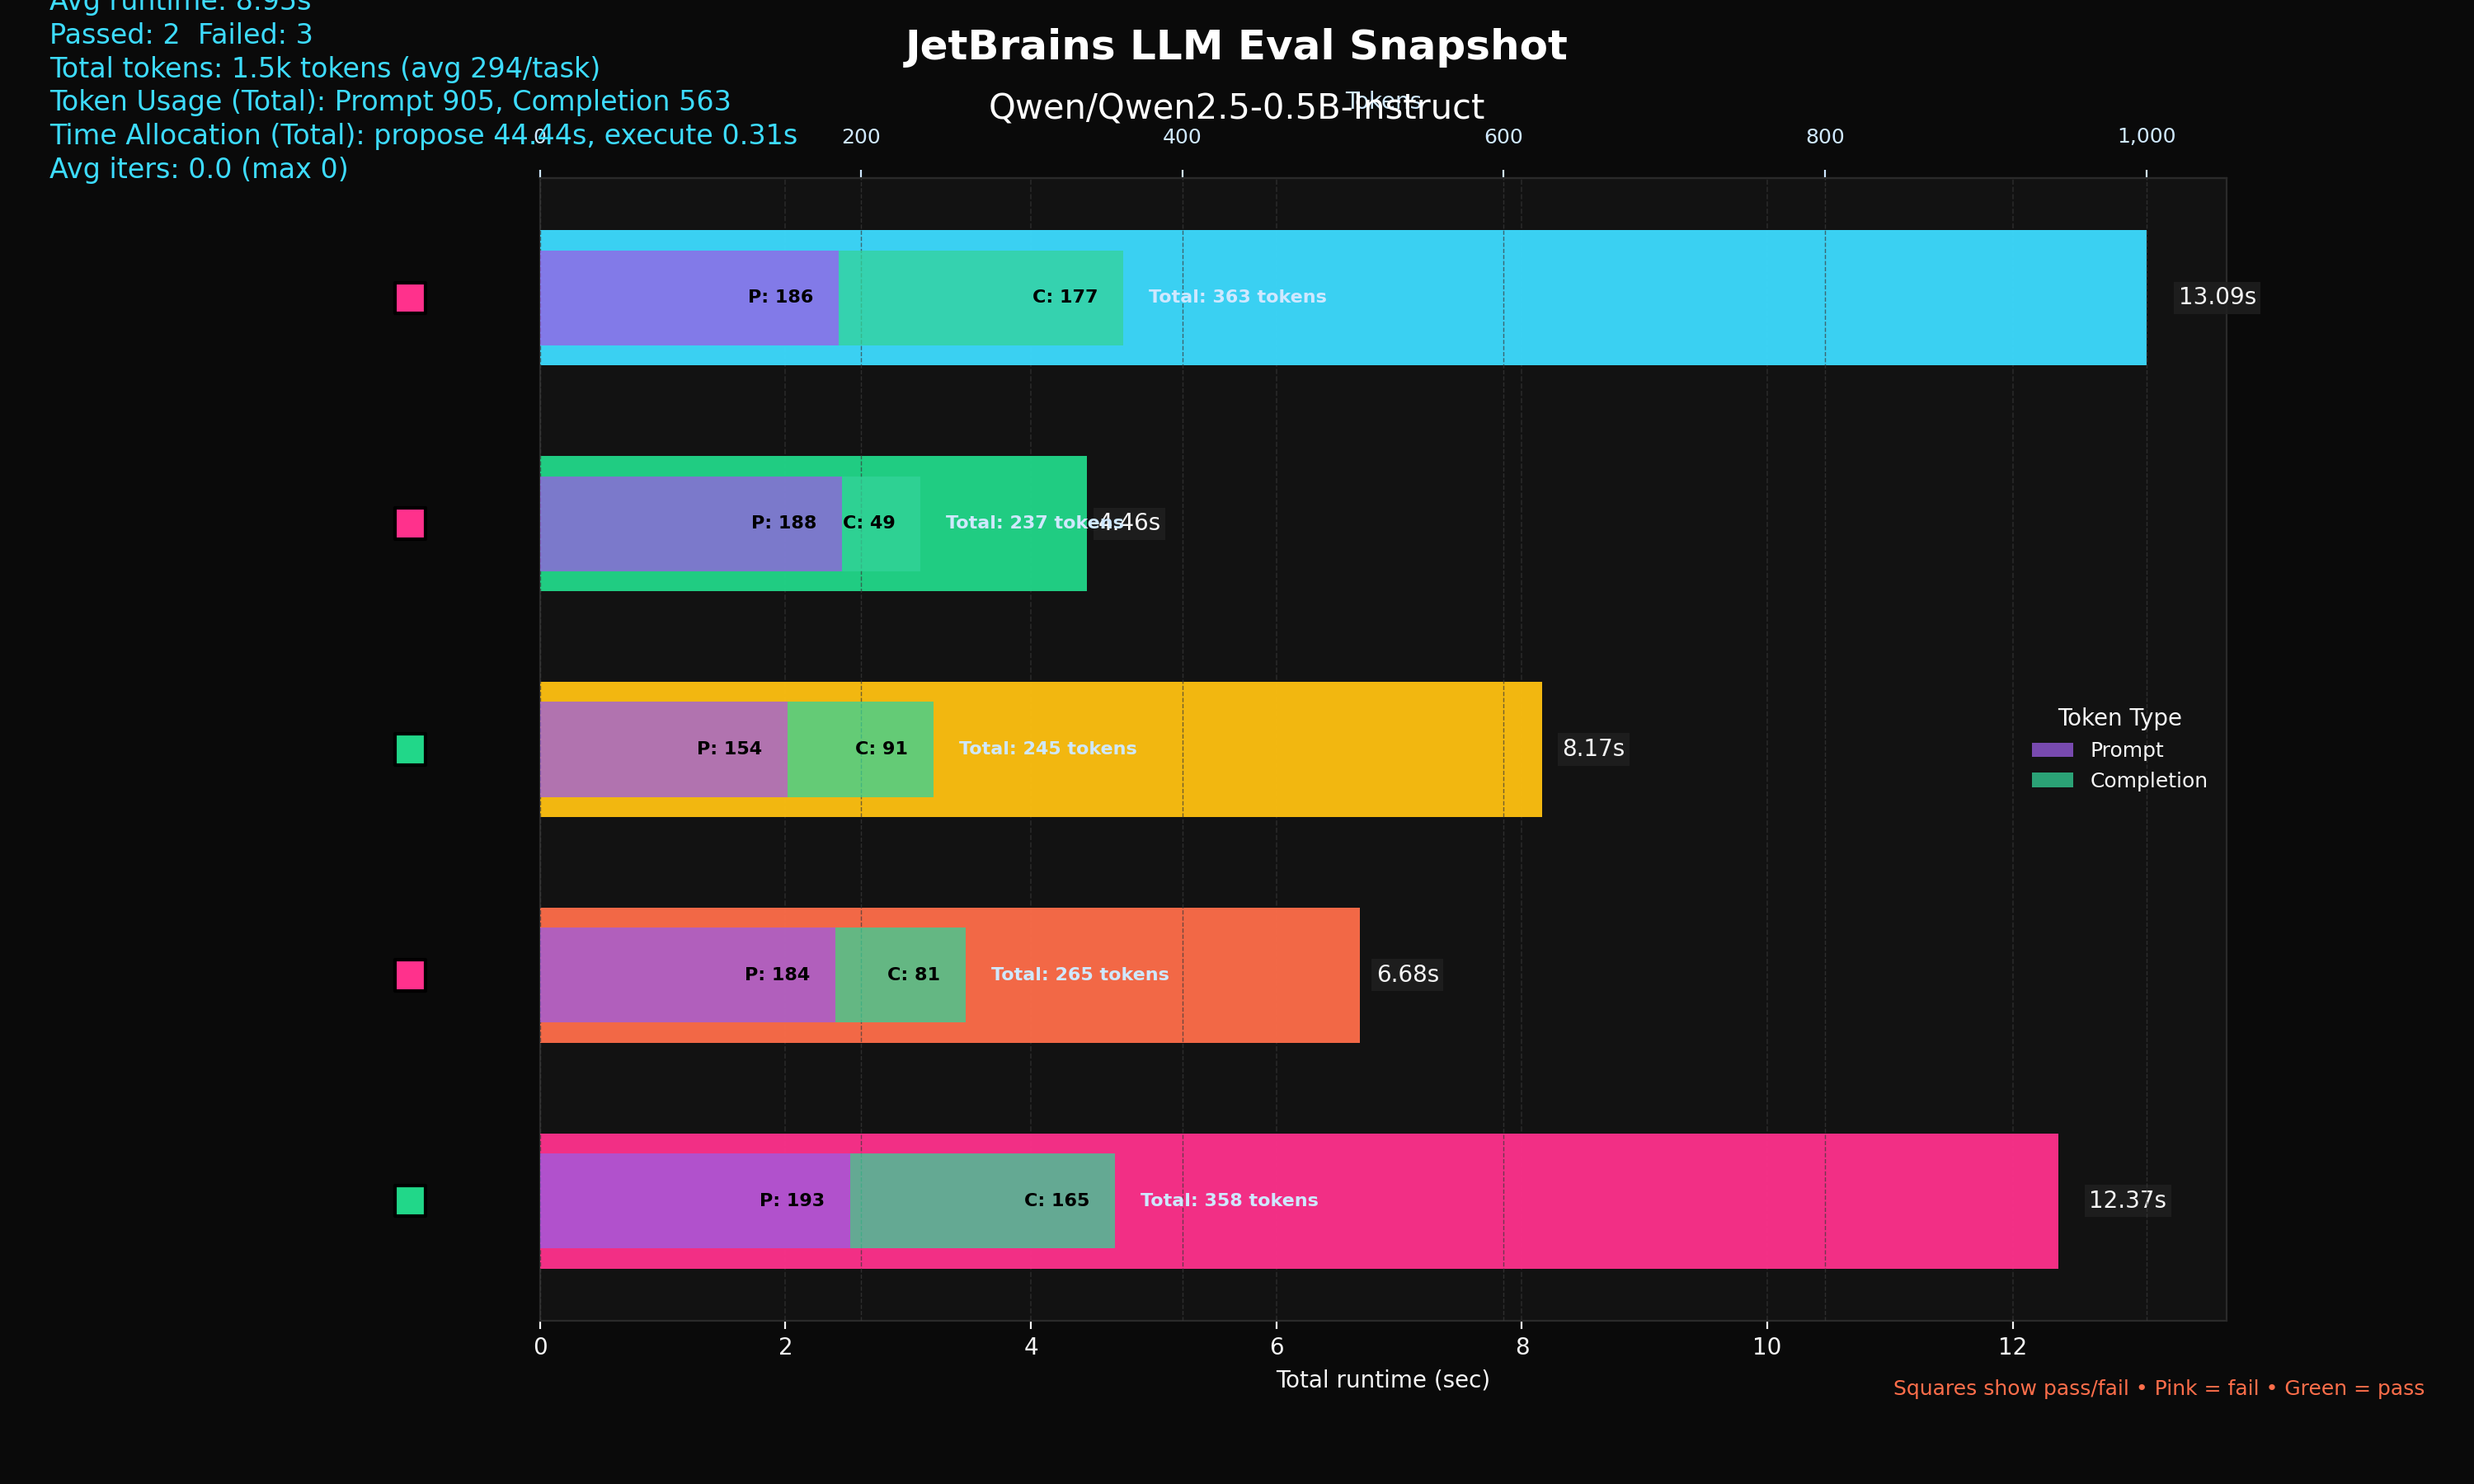
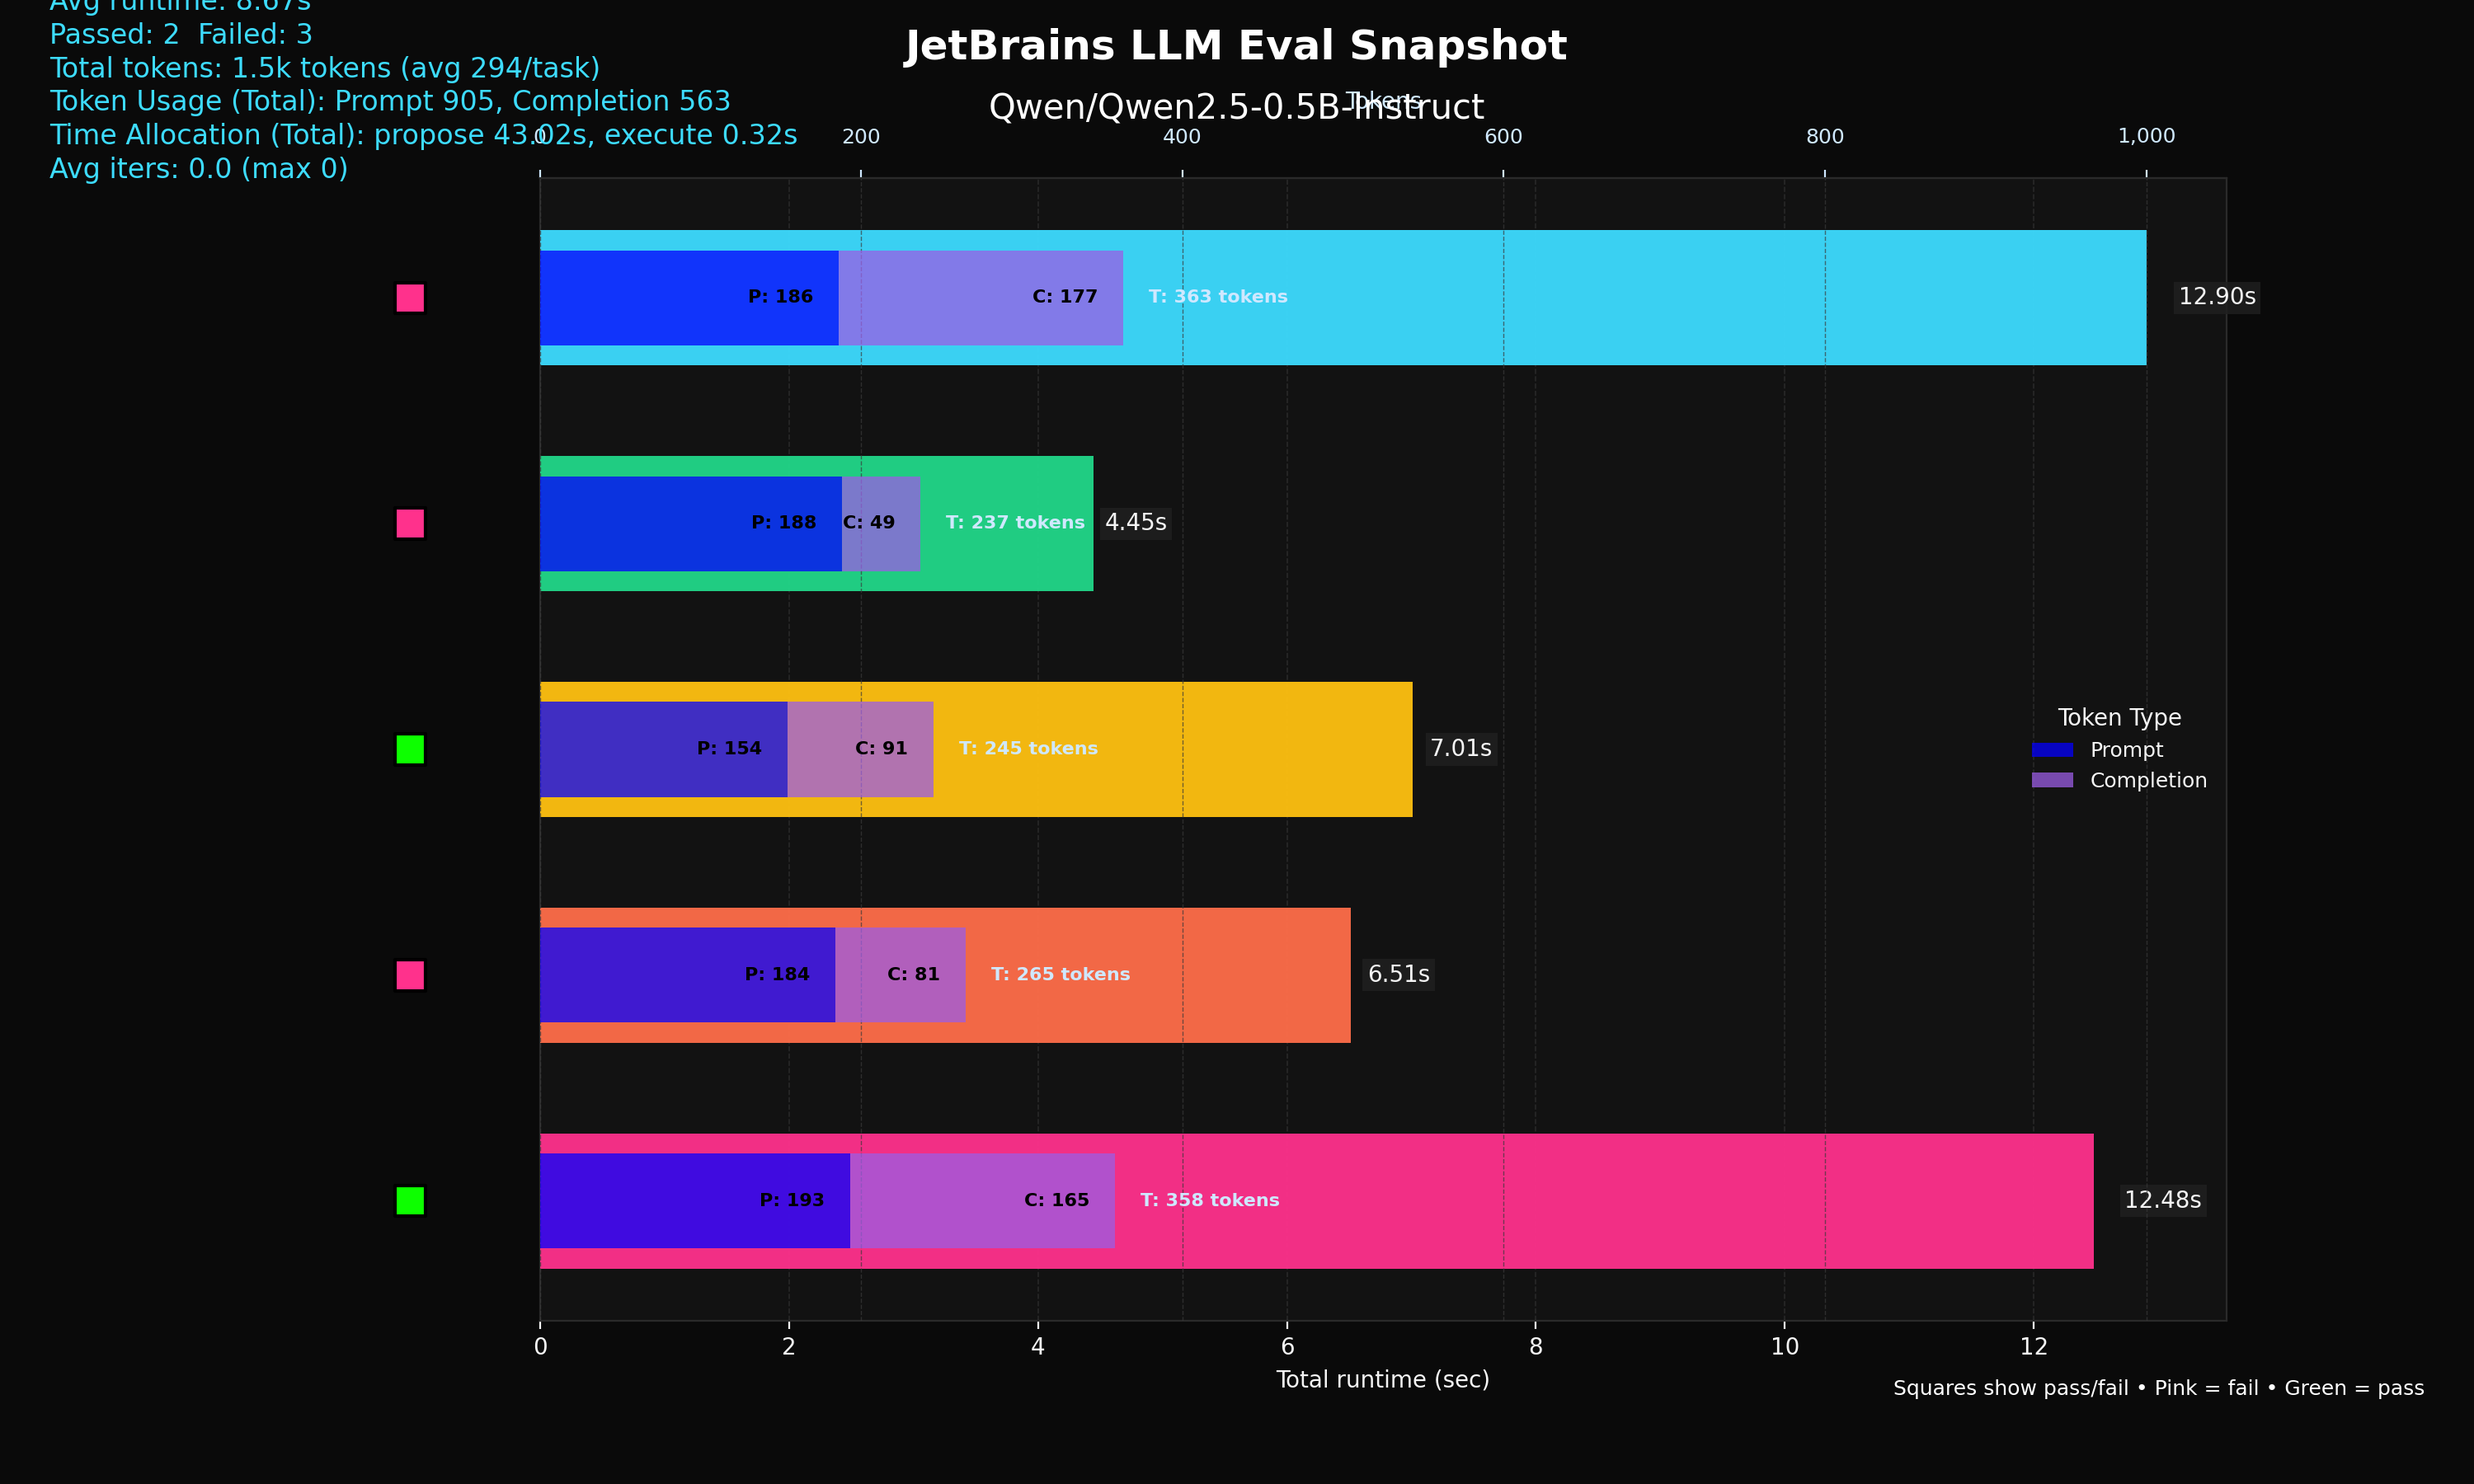
remove comment artifacts

diff --git a/src/visualize_results.py b/src/visualize_results.py
@@ -33,9 +33,6 @@ def select_token_step(max_value: float) -> int:
     return candidate_steps[-1]
 
 
-# --- MODIFICATION: Split formatting functions for clarity ---
-
-
 def format_token_value(value: float) -> str:
     """Formats token count concisely (e.g., '1.2k' or '800')."""
     if value >= 1000:
@@ -52,9 +49,6 @@ def format_token_label(value: float) -> str:
         text = f"{scaled:.1f}".rstrip("0").rstrip(".")
         return f"{text}k tokens"
     return f"{value:.0f} tokens"
-
-
-# --- END MODIFICATION ---
 
 
 def extract_metrics(
@@ -122,15 +116,13 @@ def plot_results(
     iters: Optional[List[int]] = None,
 ) -> None:
     color_cycle = build_color_cycle(len(task_ids))
-    pass_colors = ["#21D789" if flag else "#FF318C" for flag in passed]
+    pass_colors = ["#0DFF00" if flag else "#FF318C" for flag in passed]
 
     fig = plt.figure(figsize=(15, 9), facecolor=JETBRAINS_BACKGROUND)
 
-    # --- MODIFICATION: Move status squares closer ---
     grid = fig.add_gridspec(
         1, 2, width_ratios=[0.12, 1.0], wspace=0.03
     )  # Was [0.18, 1.0], wspace=0.05
-    # --- END MODIFICATION ---
 
     ax_runtime = fig.add_subplot(grid[1])
     ax_tokens = ax_runtime.twiny()
@@ -149,9 +141,7 @@ def plot_results(
     ax_tokens.spines["right"].set_visible(False)
     ax_tokens.xaxis.set_ticks_position("top")
 
-    # --- MODIFICATION: Add padding above token tick labels ---
     ax_tokens.tick_params(axis="x", colors="#CFE8FF", labelsize=9, pad=10)  # Was pad=6
-    # --- END MODIFICATION ---
 
     ax_tokens.tick_params(axis="y", left=False, labelleft=False)
 
@@ -192,15 +182,12 @@ def plot_results(
             bbox=text_box,
         )
 
-    # --- MODIFICATION: Change completion token colors ---
     token_axis_colors = [
-        "#9B5DE5",
+        "#0400FF84",
         "#00BBF9",
-        "#34D399",
-        "#A7F3D0",
-    ]  # Was ["#9B5DE5", "#00BBF9", "#FEE440", "#00F5D4"]
-    # --- END MODIFICATION ---
-
+        "#9B5DE5",
+        "#A7F3EF",
+    ]
     token_keys = [
         ("propose_prompt_tokens", "Prompt"),
         ("reflect_prompt_tokens", "Reflect prompt"),
@@ -292,7 +279,6 @@ def plot_results(
 
         cumulative_scaled = new_cumulative_scaled
 
-    # --- MODIFICATION: Move legend and improve title ---
     if ax_tokens.get_legend_handles_labels()[0]:
         legend = ax_tokens.legend(
             loc="right",
@@ -303,7 +289,6 @@ def plot_results(
         legend.get_title().set_color("#F5F5F5")
         for text in legend.get_texts():
             text.set_color("#F5F5F5")
-    # --- END MODIFICATION ---
 
     axis_limit = ax_tokens.get_xlim()[1]
     padding_scaled = axis_limit * 0.015
@@ -365,14 +350,12 @@ def plot_results(
                 **text_props_inside,
             )
 
-        # --- MODIFICATION: Use long formatter for external total label ---
         ax_tokens.text(
             total_edge_scaled + padding_scaled,
             y_positions[idx_task],
-            f"Total: {format_token_label(total_raw)}",  # Use long formatter
+            f"T: {format_token_label(total_raw)}",  # Use long formatter
             **text_props_outside,
         )
-        # --- END MODIFICATION ---
 
     # Dedicated axis keeps pass/fail squares clear of the runtime bars.
     ax_status.set_facecolor("none")
@@ -420,7 +403,6 @@ def plot_results(
                 timing_totals[key] += float(entry.get(key, 0.0))
     timing_totals = {k: v for k, v in timing_totals.items() if v}
 
-    # --- MODIFICATION: Improve clarity of summary text ---
     details_lines = [
         f"Tasks evaluated: {len(task_ids)}",
         f"Pass rate: {pass_rate:.0%}",
@@ -447,7 +429,6 @@ def plot_results(
                 if value
             )
         )
-    # --- END MODIFICATION ---
 
     if iters:
         details_lines.append(f"Avg iters: {avg_iters:.1f} (max {max_iters})")
@@ -483,14 +464,12 @@ def plot_results(
         0.98,
         0.06,
         "Squares show pass/fail • Pink = fail • Green = pass",
-        color="#FF6E4A",
+        color="#FFFFFF",
         fontsize=9,
         ha="right",
     )
 
-    # --- MODIFICATION: Add more top padding ---
     plt.tight_layout(rect=(0, 0.65, 1, 0.85))  # Was 0.86
-    # --- END MODIFICATION ---
 
     output.parent.mkdir(parents=True, exist_ok=True)
     fig.savefig(str(output), facecolor=JETBRAINS_BACKGROUND, dpi=200)
